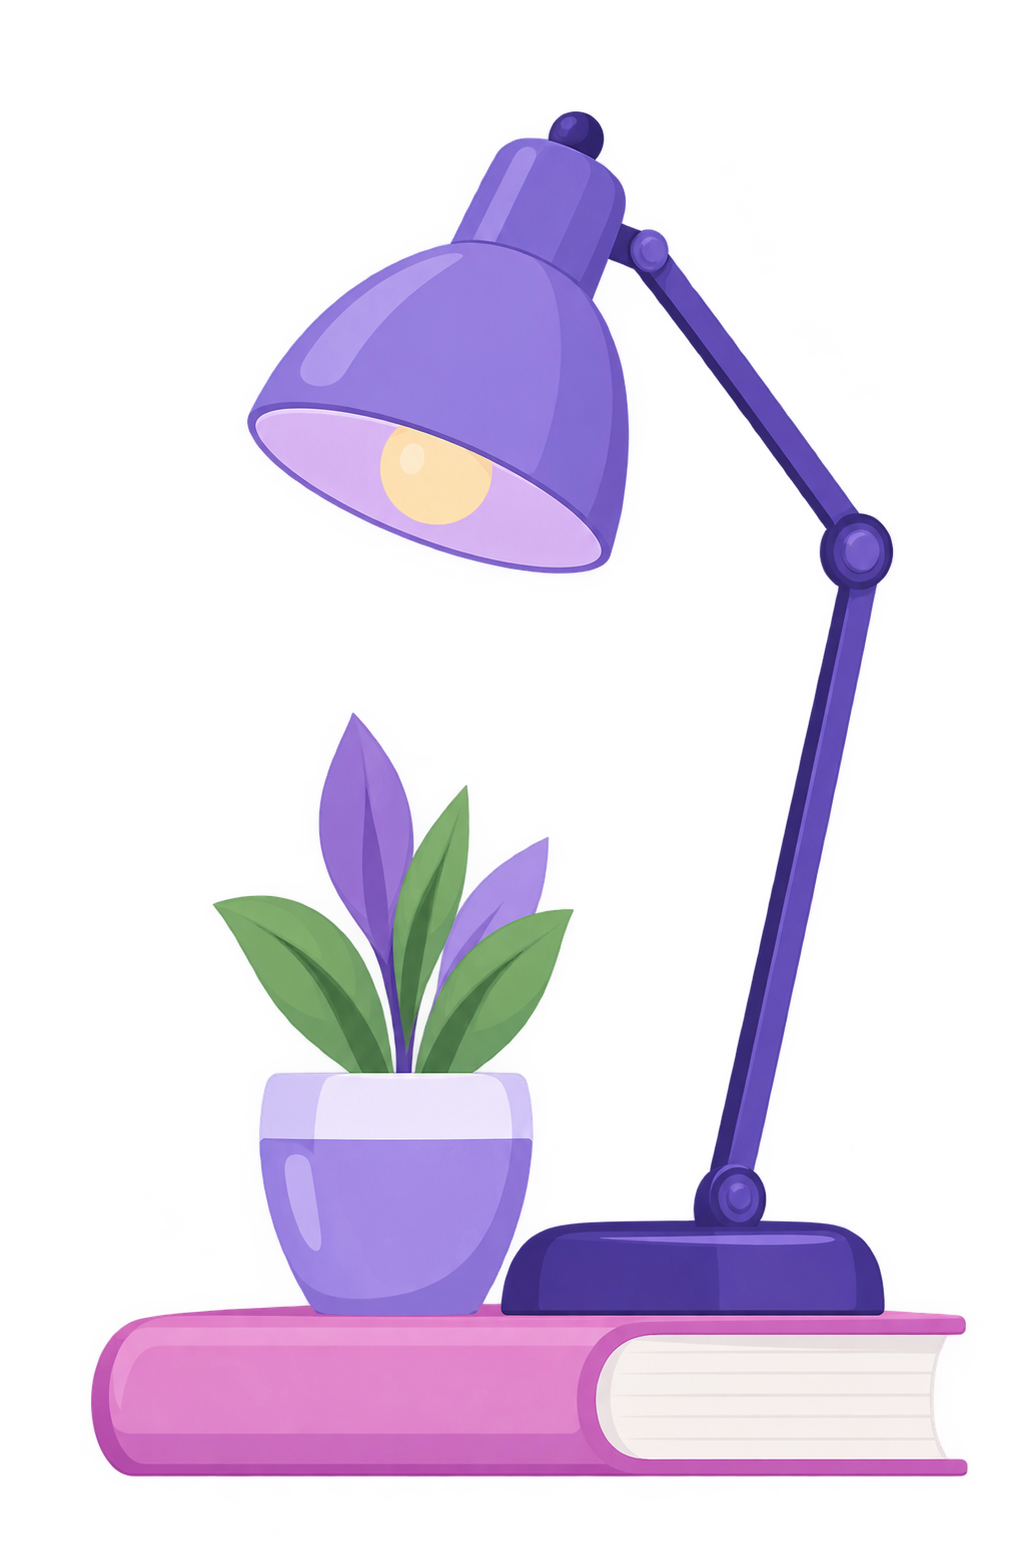
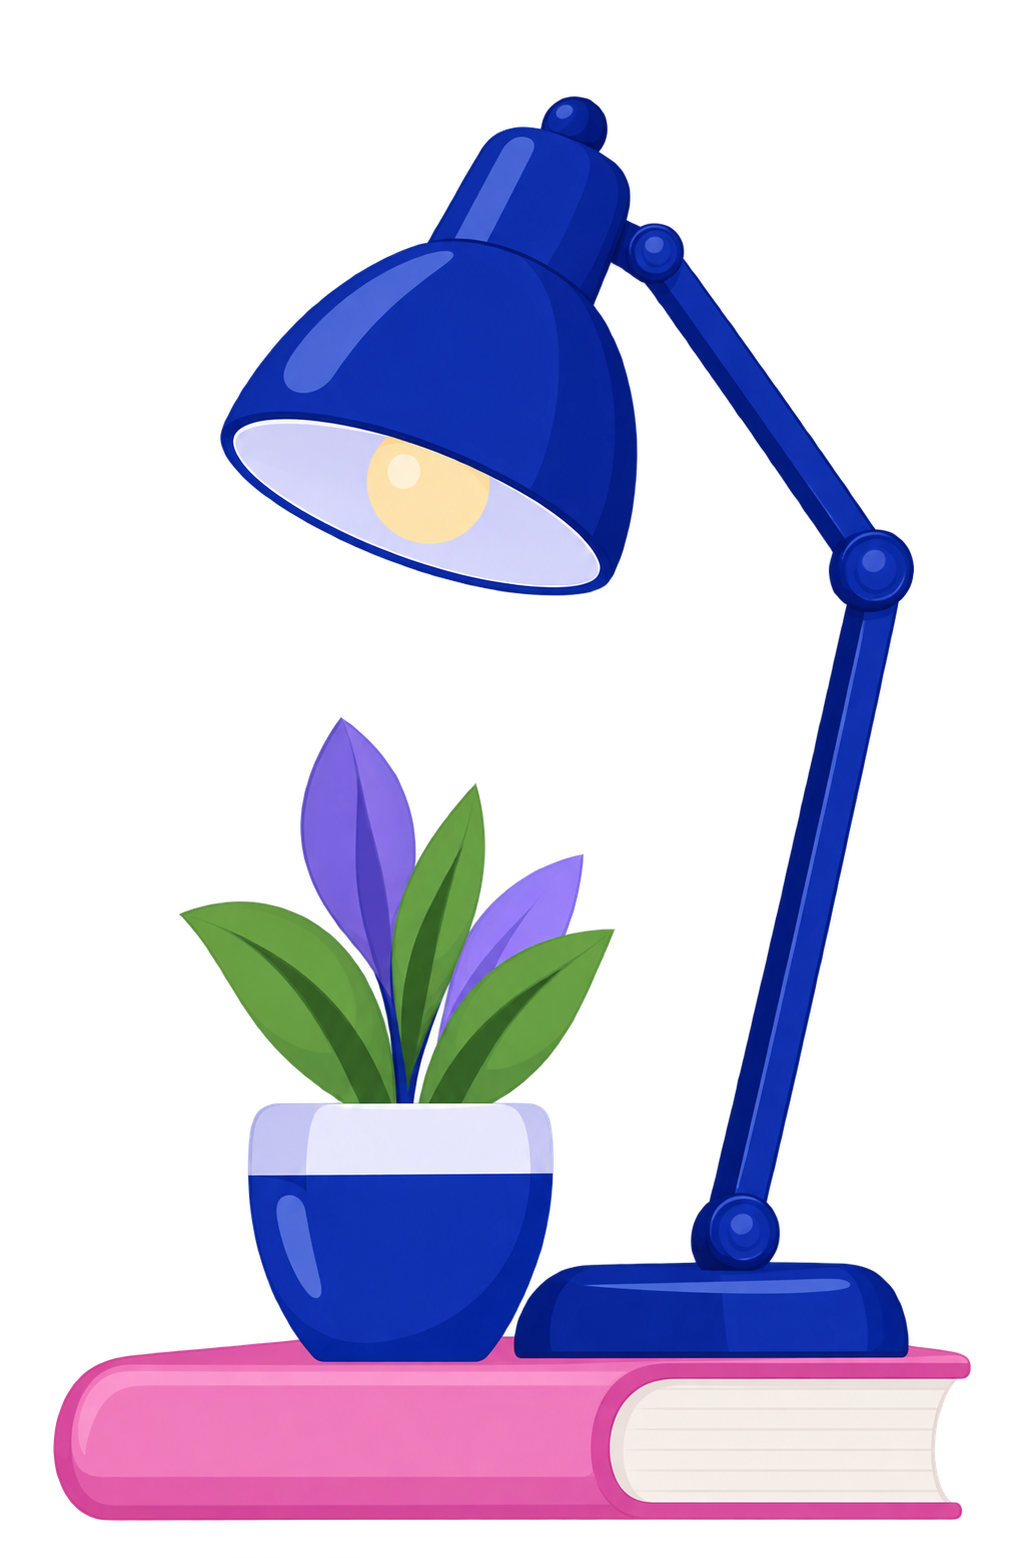
edit images

diff --git a/src/components/teacher/TeacherTeachingScopeSection.jsx b/src/components/teacher/TeacherTeachingScopeSection.jsx
@@ -27,12 +27,19 @@ function languageSlug(label) {
 /** /public/<slug>.png — ask whoever supplies new language logos to drop them here, named by slug (e.g. tr.png, fr.png) */
 const LANGUAGE_FLAGS = { ar: "/ar.png", en: "/en.png", tr: "/tr.png", fr: "/fr.png" };
 
-/** Per-language gradient — reuses the site's own named identity gradients (login/register/CTA), not arbitrary colors */
+const DEFAULT_LANGUAGE_GRADIENT = "bg-lang-blue";
+/**
+ * Per-language gradient — full-strength versions of the site's own
+ * established brand hues (BLUE, accent.pink, accent.purple, the ambient teal
+ * glow), one per card. `landmark` bleeds off the card's bottom corner, same
+ * spot for every language.
+ */
 const LANGUAGE_STYLES = {
-  en: { gradient: "bg-hero-gradient", landmark: "/big-ben.png" },
-  ar: { gradient: "bg-profile-gradient", landmark: "/khalifa-tower.png" },
+  en: { gradient: "bg-lang-blue", landmark: "/big-ben.png" },
+  ar: { gradient: "bg-lang-pink", landmark: "/khalifa-tower.png" },
+  fr: { gradient: "bg-lang-purple", landmark: "/eiffel-tower.png" },
+  tr: { gradient: "bg-lang-teal", landmark: "/hagia-sophia.png" },
 };
-const DEFAULT_LANGUAGE_GRADIENT = "bg-search-gradient";
 
 function Chip({ label, dot, dotSize = 14, flag, textColor = "#1E1E1E" }) {
   return (
@@ -116,8 +123,9 @@ function QualificationsCard({ title, qualifications }) {
 /** One colorful language card — flag + name, with the language's landmark bleeding off the bottom corner */
 function LanguageCard({ label }) {
   const slug = languageSlug(label);
-  const gradient = LANGUAGE_STYLES[slug]?.gradient ?? DEFAULT_LANGUAGE_GRADIENT;
-  const landmark = LANGUAGE_STYLES[slug]?.landmark;
+  const style = LANGUAGE_STYLES[slug];
+  const gradient = style?.gradient ?? DEFAULT_LANGUAGE_GRADIENT;
+  const landmark = style?.landmark;
   const flag = LANGUAGE_FLAGS[slug];
   const [flagMissing, setFlagMissing] = useState(false);
 

diff --git a/tailwind.config.js b/tailwind.config.js
@@ -43,6 +43,11 @@ export default {
         'hero-gradient': 'linear-gradient(272.4deg, #4B6898 2.51%, #9E074A 93.94%)',
         'profile-gradient': 'linear-gradient(115deg, #C2185B 0%, #6A2C9E 100%)',
         'search-gradient': 'linear-gradient(120deg, #8B5CF6 0%, #7E57C2 60%, #A78BDA 100%)',
+        // Full-strength versions of the site's own established brand hues — BLUE (#4B6898, hero/teacher-card), accent.pink (#C2185B, profile-gradient), accent.purple (#7E57C2, search-gradient), and the ambient teal glow (#6BCEEE) — not arbitrary picks.
+        'lang-blue': 'linear-gradient(120deg, #4B6898 0%, #2E477A 100%)',
+        'lang-pink': 'linear-gradient(120deg, #C2185B 0%, #8A1449 100%)',
+        'lang-purple': 'linear-gradient(120deg, #7E57C2 0%, #5B2E94 100%)',
+        'lang-teal': 'linear-gradient(120deg, #6BCEEE 0%, #2FA8CC 100%)',
       },
       keyframes: {
         'fade-in': {
